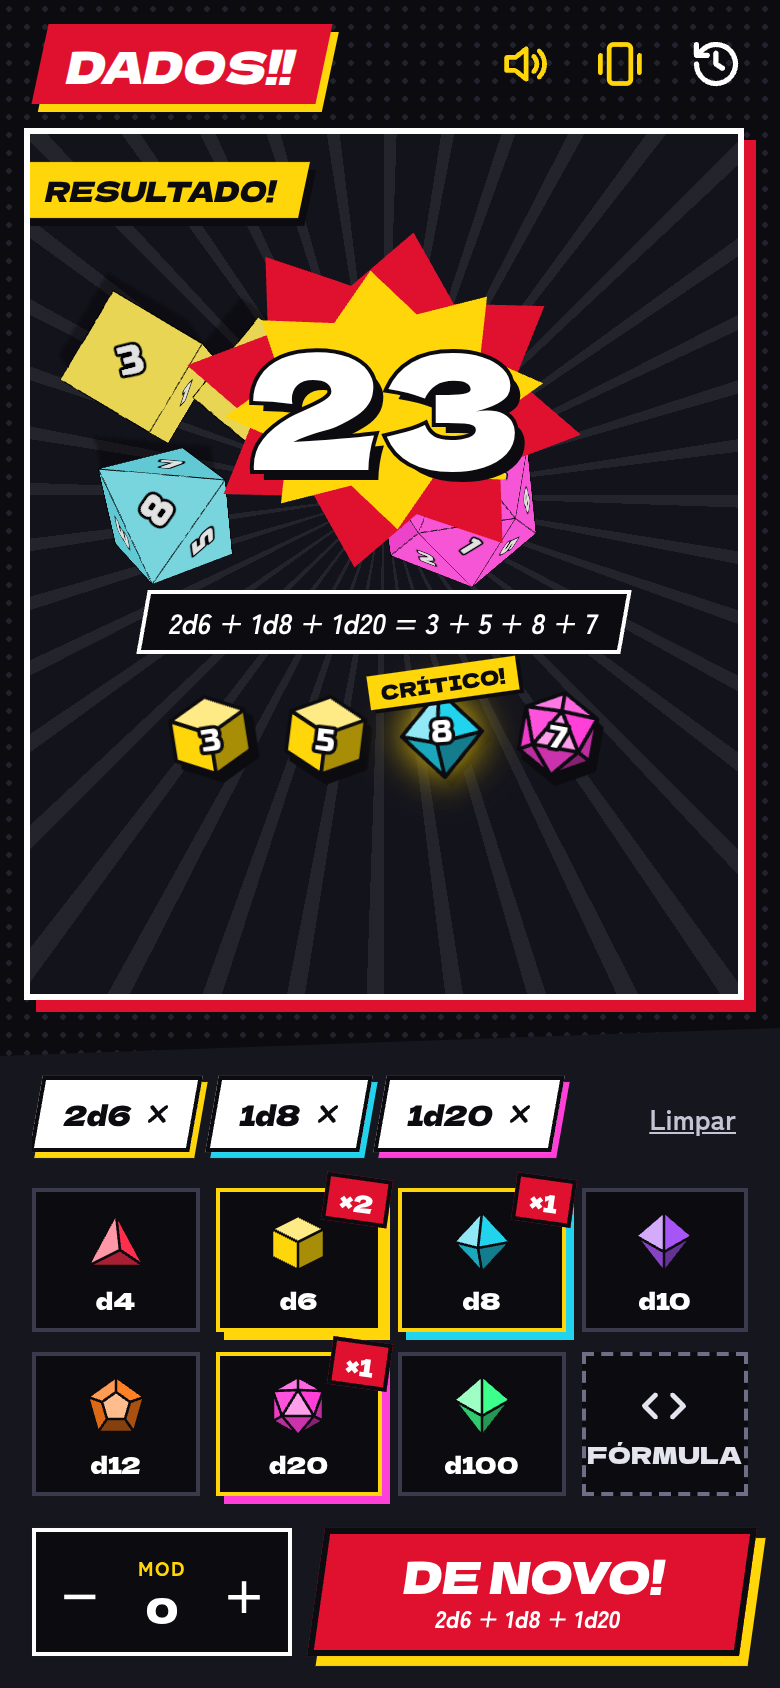
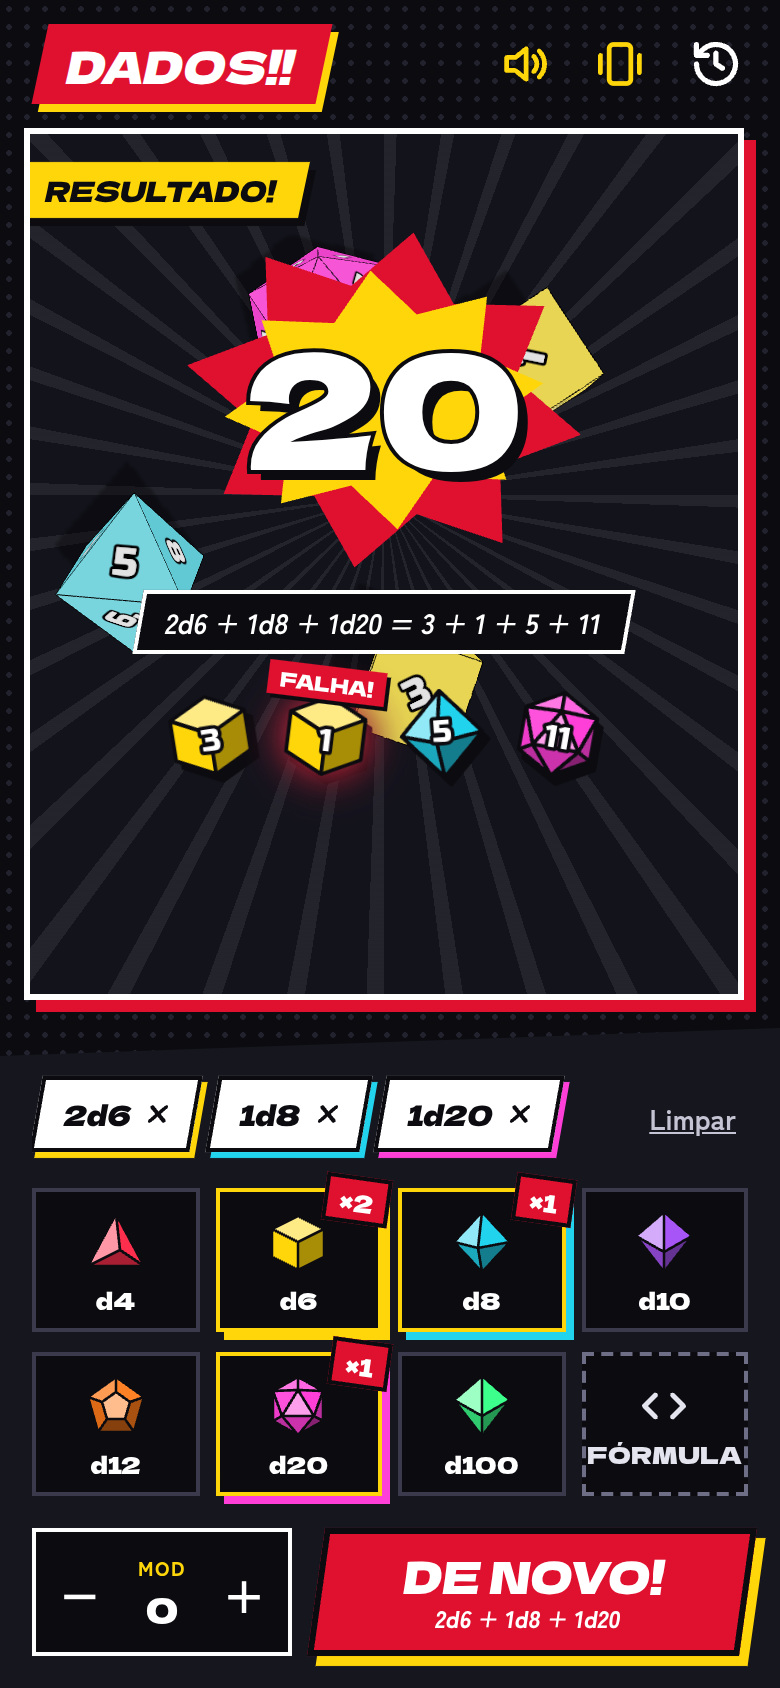
docs(specs): close shake-animation verifier findings and re-walk

diff --git a/.specs/features/shake-animation/verification.md b/.specs/features/shake-animation/verification.md
@@ -1,6 +1,6 @@
 # Shake Animation verification
 
-**Verdict**: FAIL
+**Verdict**: FAIL (round 1); findings F1-F5 closed, proofs green at HEAD in round 2
 **Proofs**: `proofs.md` at f6f5933
 **Verifier**: independent sub-agent (author != verifier)
 
@@ -26,8 +26,8 @@
 
 | Finding | Evidence | Fix | Closed |
 | --- | --- | --- | --- |
-| F1 (Major, C13): tapping ROLAR! mid-shake wipes the button's roll. The button's `roll` makes `rolling` true, so on the next motion sample the handler sees `canRoll` false and calls `cancel`. `cancelShake` then sets `active: null` without condition, so the button's dice vanish after their whoosh and nothing reaches the history | Throwaway test at HEAD: `shake(2d6)` -> `roll(1d20)` -> handler with `canRoll` false -> `cancelShake` leaves `active` = null. The C13 reducer test never applies `cancelShake` after `roll`, and the handler test expects `cancel` on a button roll | make `cancelShake` a no-op when `state.shaking` is null (return `state`), or clear only `shaking`. Add a test: shake -> roll -> cancelShake keeps `active` = the button roll | |
-| F2 (Minor, C5): a non-empty but invalid selection still rattles. `canShakeRoll` gets `!!notation`. With more than 30 bodies (e.g. 10d4+10d6+10d8+1d10, which the tray allows at 10 per die), `buildRoll` returns null, yet the handler calls start, rattle and roll | Throwaway test at HEAD: notation `10d4+10d6+10d8+1d10`, `buildRoll` -> null, handler calls -> `start,rattle,roll` | pass `!!buildRoll(notation)` or `!!parse(notation)` as `hasRoll`, and test an over-cap selection | |
-| F3 (Minor, C6, C7): the wiring to the rule is not tested. The push size and the contact mute live only in `useShake.ts` and `App.tsx`, and the walk does not judge either one | Mutations kept 67/67 green: `shakeImpulse(force)` -> `shakeImpulse(0)` in `useShake.ts`; `sound.setHolding(shaking)` effect deleted from `App.tsx` | move the rattle-to-push mapping into `createShakeHandler`'s rattle payload (or a tested helper), and move the holding flag into a tested seam (e.g. engine fed from the roll state), or walk-record push strength and silent contacts | |
-| F4 (Minor, C9): the hook can throw a different roll and no test fails. The throw path in `useRoll.tsx` is not tested | Mutation in `throwShake`: `startRoll(shaking.notation, sound.launch)` + `{type:'roll'}` (new id, new dice) kept 67/67 green | extract the throw as a pure step (e.g. `throwShake(state, launch)` returning the next state) and test that it keeps the held roll's id and die ids | |
-| F5 (Cosmetic, C8): the walk evidence contradicts itself. The Walked line says `RESULTADO 26 = 3 + 6 + 8 + 9`, but `walk/landed.png` shows `23 = 3 + 5 + 8 + 7`. "Same four dice" cannot be read from the screenshots | `tasks.md` Walked bullet for SHA-03.1 vs `walk/landed.png` | re-walk and record the text that matches the screenshot (e.g. roll id before and after the throw) | |
+| F1 (Major, C13): tapping ROLAR! mid-shake wipes the button's roll. The button's `roll` makes `rolling` true, so on the next motion sample the handler sees `canRoll` false and calls `cancel`. `cancelShake` then sets `active: null` without condition, so the button's dice vanish after their whoosh and nothing reaches the history | Throwaway test at HEAD: `shake(2d6)` -> `roll(1d20)` -> handler with `canRoll` false -> `cancelShake` leaves `active` = null. The C13 reducer test never applies `cancelShake` after `roll`, and the handler test expects `cancel` on a button roll | make `cancelShake` a no-op when `state.shaking` is null (return `state`), or clear only `shaking`. Add a test: shake -> roll -> cancelShake keeps `active` = the button roll | 91e8a10 - C13 (`rollState.test.ts` SHA-04.3 shake -> roll -> cancel keeps the button roll; walked) |
+| F2 (Minor, C5): a non-empty but invalid selection still rattles. `canShakeRoll` gets `!!notation`. With more than 30 bodies (e.g. 10d4+10d6+10d8+1d10, which the tray allows at 10 per die), `buildRoll` returns null, yet the handler calls start, rattle and roll | Throwaway test at HEAD: notation `10d4+10d6+10d8+1d10`, `buildRoll` -> null, handler calls -> `start,rattle,roll` | pass `!!buildRoll(notation)` or `!!parse(notation)` as `hasRoll`, and test an over-cap selection | f4bfa57 - C5 (`shakeGesture.test.ts` SHA-01.5 over-cap notation does not rattle) |
+| F3 (Minor, C6, C7): the wiring to the rule is not tested. The push size and the contact mute live only in `useShake.ts` and `App.tsx`, and the walk does not judge either one | Mutations kept 67/67 green: `shakeImpulse(force)` -> `shakeImpulse(0)` in `useShake.ts`; `sound.setHolding(shaking)` effect deleted from `App.tsx` | move the rattle-to-push mapping into `createShakeHandler`'s rattle payload (or a tested helper), and move the holding flag into a tested seam (e.g. engine fed from the roll state), or walk-record push strength and silent contacts | dc8e03f - C6 (`shakeGesture.test.ts` SHA-02.1 handler hands `shakeImpulse(force)`); C7 wiring by the re-walk (0 impacts while held) |
+| F4 (Minor, C9): the hook can throw a different roll and no test fails. The throw path in `useRoll.tsx` is not tested | Mutation in `throwShake`: `startRoll(shaking.notation, sound.launch)` + `{type:'roll'}` (new id, new dice) kept 67/67 green | extract the throw as a pure step (e.g. `throwShake(state, launch)` returning the next state) and test that it keeps the held roll's id and die ids | 783ef56 - C9 (`rollState.test.ts` SHA-03.2 `throwHeld` keeps the held roll and die ids) |
+| F5 (Cosmetic, C8): the walk evidence contradicts itself. The Walked line says `RESULTADO 26 = 3 + 6 + 8 + 9`, but `walk/landed.png` shows `23 = 3 + 5 + 8 + 7`. "Same four dice" cannot be read from the screenshots | `tasks.md` Walked bullet for SHA-03.1 vs `walk/landed.png` | re-walk and record the text that matches the screenshot (e.g. roll id before and after the throw) | re-walk recorded in tasks.md at 783ef56; `walk/landed.png` and the text both read 20 = 3 + 1 + 5 + 11 |

diff --git a/.specs/features/shake-animation/tasks.md b/.specs/features/shake-animation/tasks.md
@@ -149,10 +149,11 @@ Proof: run unit | SHA-04.3
 
 **Dispatched:** Verifier (validate.md) over HEAD f6f5933, 2026-11-26 - returned (FAIL, 5 findings)
 **Settled mid-build:** none
-**Walked:** 2026-11-26, headless Chrome 390x844 over CDP on `npx vite --host --port 5173` (HTTPS, cert ignored), fresh profile, Web Audio instrumented (sample playback rates, whoosh, oscillators).
+**Walked:** 2026-11-26 (re-walked after the verifier fixes at 783ef56), headless Chrome 390x844 over CDP on `npx vite --host --port 5173` (HTTPS, cert ignored), fresh profile, Web Audio instrumented (sample playback rates, whoosh, oscillators).
 - SHA-01.1/01.3/01.4 (C3, C4): add d6, d6, d8 to the default d20, tap "Agitar para rolar: desligado", synthetic `devicemotion` alternating 20/2 m/s² for 40 steps. `walk/shaking-1.png`: four dice (2 d6, d8, d20) inside the bottom strip, fully in frame; `main` text is empty (no result, no "ROLANDO…", no ready hint).
-- SHA-02.2: during the shake only rattle clicks (rates 1.45-1.72) reached Web Audio; no impact-rate samples until the throw.
-- SHA-03.1 (C8): calm for 25 steps -> "ROLANDO…", dice spread toward the top; after 4 s `walk/landed.png` shows RESULTADO 26 = 3 + 6 + 8 + 9 from the same four dice; one whoosh, 4 reveal voices.
+- SHA-02.2 (C7 wiring, `sound.setHolding` in App): while held, Web Audio got 11 samples, all rattle-rate (1.47-1.74), 0 impact-rate samples and no whoosh; impact samples (0.81-1.32) start only after the throw.
+- SHA-03.1 (C8): calm for 25 steps -> one whoosh, dice thrown toward the top; after 4 s `main` reads "RESULTADO! 20 2d6 + 1d8 + 1d20 = 3 + 1 + 5 + 11" and `walk/landed.png` shows that same 20 = 3 + 1 + 5 + 11 with four dice. That the thrown dice are the held ones (same roll and die ids) is proven by C9, not by the picture.
 - SHA-04.2 (T5): weak shake (10/2 m/s²) then calm -> text during: empty; after: "PRONTO PRA ROLAR!".
+- SHA-04.3 (verifier F1, in the browser): strong shake, tap ROLAR! mid-shake, keep sending calm samples -> 0 impacts while held, 1 whoosh, and the button roll lands: "RESULTADO! 5 2d6 + 1d8 + 1d20 = 1 + 1 + 2 + 1".
 - First walk found held dice flying up to the camera, huge and cropped; fixed in T6 with a low spawn, a smaller upward push and an invisible lid.
 - Not walked: feel on the user's phone (real accelerometer, push strength).

diff --git a/.specs/features/shake-animation/spec.md b/.specs/features/shake-animation/spec.md
@@ -1,6 +1,6 @@
 # Shake Animation
 
-**Status:** Approved
+**Status:** Done
 **Approved**: 2026-11-26 - user: "aprovo a spec"
 **Scope:** Large
 
@@ -67,10 +67,10 @@ As a player who shook the phone lightly or by accident, nothing is rolled.
 
 | ID | Story | Status |
 | --- | --- | --- |
-| SHA-01 | Dice appear shaking | Pending |
-| SHA-02 | Shaking follows the phone | Pending |
-| SHA-03 | Thrown from the hand | Pending |
-| SHA-04 | Weak shake leaves no trace | Pending |
+| SHA-01 | Dice appear shaking | Done |
+| SHA-02 | Shaking follows the phone | Done |
+| SHA-03 | Thrown from the hand | Done |
+| SHA-04 | Weak shake leaves no trace | Done |
 
 ## Assumptions & Open Questions
 
